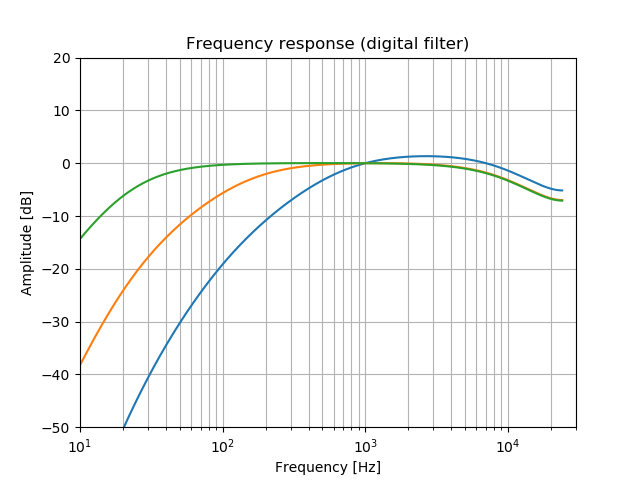
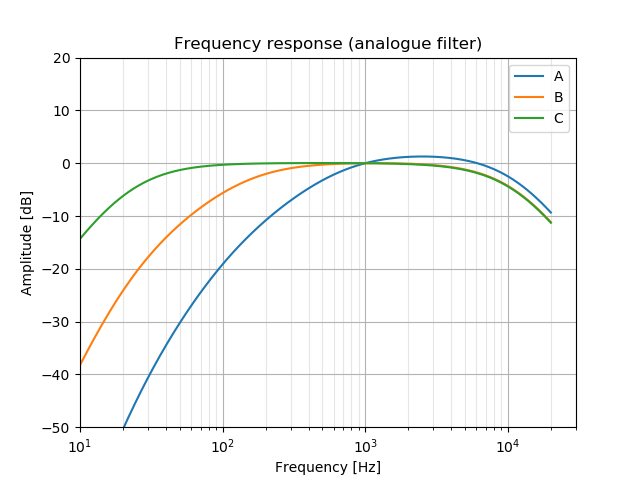
Updated PNG

Changed region(s): [[0.25, 0.0625, 0.75, 0.875], [0.625, 0.3125, 0.875, 0.4688], [0.7812, 0.125, 0.9062, 0.2812]]

diff --git a/ABC_weighting.py b/ABC_weighting.py
@@ -172,13 +172,13 @@ if __name__ == '__main__':
         z, p, k = get_zpk(curve)
         w = 2*pi*np.logspace(log10(10), log10(20000), 1000)
         w, h = signal.freqs_zpk(z, p, k, w)
-        plt.semilogx(w/(2*pi), 20*np.log10(h), label=curve)
+        plt.semilogx(w/(2*pi), 20*np.log10(np.abs(h)), label=curve)
     plt.title('Frequency response (analogue filter)')
     plt.xlabel('Frequency [Hz]')
     plt.ylabel('Amplitude [dB]')
-    plt.ylim(-50, 20)
     plt.grid(True, color='0.7', linestyle='-', which='major', axis='both')
     plt.grid(True, color='0.9', linestyle='-', which='minor', axis='both')
+    plt.axis([10, 30e3, -50, 20])
     plt.legend()
 
 
@@ -197,5 +197,6 @@ if __name__ == '__main__':
     plt.ylabel('Amplitude [dB]')
     plt.grid(True, color='0.7', linestyle='-', which='both', axis='both')
     plt.axis([10, 30e3, -50, 20])
-    
+    plt.legend()
+
     plt.show()

diff --git a/ITU_R_468_weighting.py b/ITU_R_468_weighting.py
@@ -1,4 +1,4 @@
-# -*- coding: utf-8 -*-
+#!/usr/bin/python3
 """
 Created on Sun Mar 20 2016
 
@@ -45,8 +45,10 @@ def normalise_a2d(z,p,fs):
 
 def get_zpk(fs = False):
     """
+
     Return ITU-R 468 analog (fs=False) or digital (fs=sampling rate) 
     weighting filter zeros, poles, and gain.
+
     """
 
     z = np.array([0])
@@ -66,7 +68,7 @@ if __name__ == '__main__':
     z, p, k = get_zpk()
     w = 2*np.pi*np.logspace(np.log10(10), np.log10(20000), 1000)
     w, h = signal.freqs_zpk(z, p, k, w)
-    plt.semilogx(w/(2*np.pi), 20*np.log10(h))
+    plt.semilogx(w/(2*np.pi), 20*np.log10(np.abs(h)))
     plt.title('Frequency response (analogue filter)')
     plt.xlabel('Frequency [Hz]')
     plt.ylabel('Amplitude [dB]')
